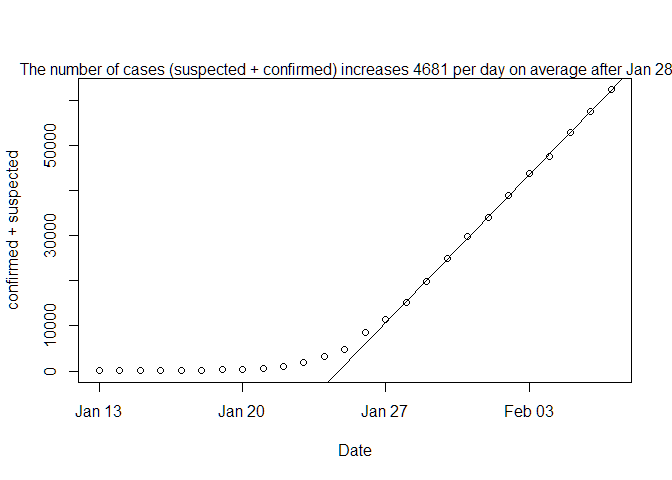
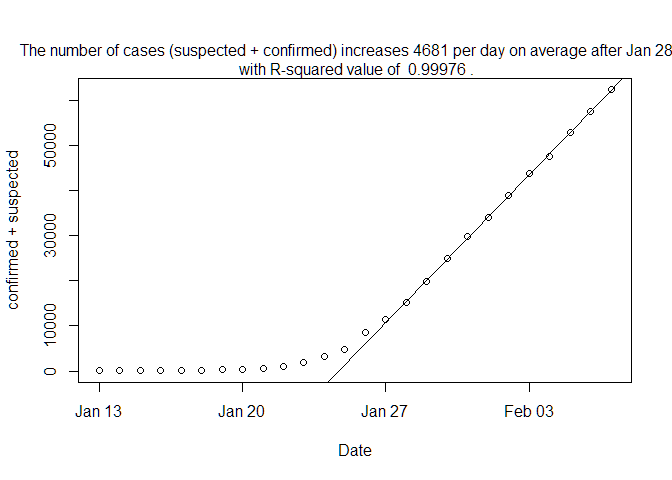
minor additoin 2/7/2020

Changed region(s): [[0.0312, 0.0938, 1.0, 0.1562]]

diff --git a/Report_20200206.md b/Report_20200206.md
@@ -46,7 +46,7 @@ The last updated time (Beijing Time)is
 x$lastUpdateTime
 ```
 
-    ## [1] "2020-02-08 11:31:19"
+    ## [1] "2020-02-08 12:26:52"
 
 Now we present the total number of confirmed and suspected respectively.
 
@@ -69,7 +69,7 @@ dataforfitting <- dataDay %>% filter(date > make_date(2020,1,27))
 model <- lm(confandsusp ~ date, data=dataforfitting)
 plot(dataDay$date, dataDay$confandsusp, xlab = "Date", ylab = "confirmed + suspected" )
 abline(model)
-mtext(paste("The number of cases (suspected + confirmed) increases", as.character(floor(model$coefficients[2])),"per day on average after Jan 28th."))
+mtext(paste("The number of cases (suspected + confirmed) increases", as.character(floor(model$coefficients[2])),"per day on average after Jan 28th.\n with R-squared value of ",round(summary(model)$r.squared, digits=5),"."))
 ```
 
 ![](Report_20200206_files/figure-gfm/unnamed-chunk-4-1.png)<!-- -->
